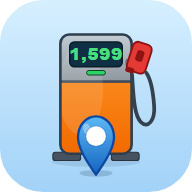
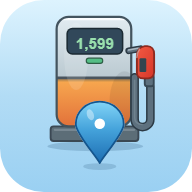
Regenera iconos 192/512 como réplica fiel del icono original de bombona con pin y sube a v26

diff --git a/sw.js b/sw.js
@@ -2,8 +2,8 @@ const CACHE = 'gasolineras-v3';
 const CDN_CACHE = 'gasolineras-cdn-v1';
 const API_HOST = 'sedeaplicaciones.minetur.gob.es';
 const API_BASE = 'https://' + API_HOST + '/ServiciosRESTCarburantes/PreciosCarburantes/';
-const APP_VERSION = 25;
-const BUILD_TIME = '20261007-001823';
+const APP_VERSION = 26;
+const BUILD_TIME = '20261007-105320';
 
 importScripts('js/state.js', 'js/helpers.js', 'js/db.js', 'js/history.js');
 
